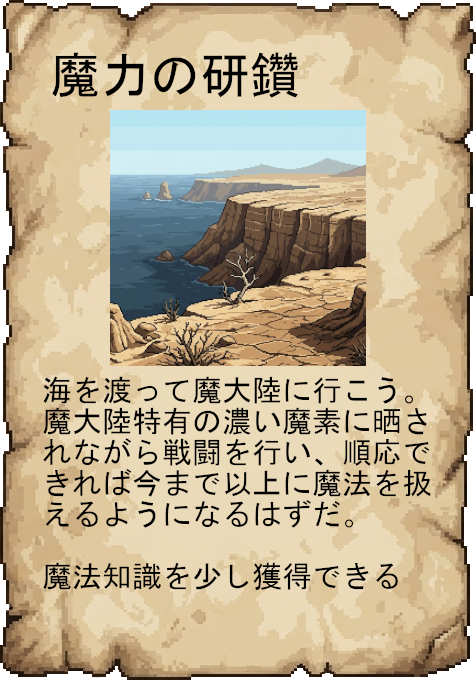
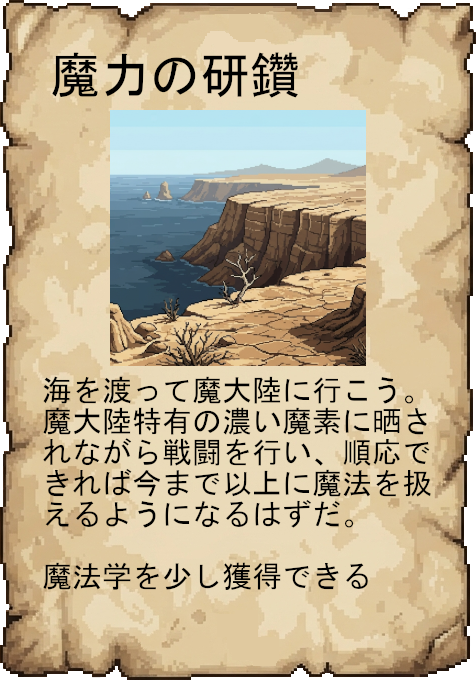
魔法見た目

Changed region(s): [[0.2059, 0.8029, 0.8529, 0.8647]]

diff --git a/Src/Object/Enemy.cpp b/Src/Object/Enemy.cpp
@@ -357,7 +357,7 @@ Enemy* SpawnEnemyByTurn(int turn)
                 { "Data/Image/Enemy/Spirit/Attack_3.png",     13, 1, 128, 128 },
                 { "Data/Image/Enemy/Spirit/Hurt.png",          3, 1, 128, 128 },
                 { "Data/Image/Enemy/Spirit/Dead.png",          5, 1, 128, 128 }};
-            return new Enemy("マジックボム",53,8,12,14,20,12, "こうげき", "ばくはつ", "放熱", magicBombAnims, spawnX, spawnY);
+            return new Enemy("マジックボム",43,8,12,14,20,12, "こうげき", "ばくはつ", "放熱", magicBombAnims, spawnX, spawnY);
         }case 4: {
             std::vector<MotionConfig> trentAnims = {
                 { "Data/Image/Enemy/Plent/Idle.png",          5, 1, 128, 128 },
@@ -366,7 +366,7 @@ Enemy* SpawnEnemyByTurn(int turn)
                 { "Data/Image/Enemy/Plent/Attack_3.png",     15, 1, 128, 128 },
                 { "Data/Image/Enemy/Plent/Hurt.png",          3, 1, 128, 128 },
                 { "Data/Image/Enemy/Plent/Dead.png",          2, 1, 128, 128 }};
-            return new Enemy("トレント",56,8,3,6,16,14, "こうげき", "毒の粉", "大地の恵み", trentAnims, spawnX, spawnY);}
+            return new Enemy("トレント",56,8,3,13,16,14, "こうげき", "毒の粉", "大地の恵み", trentAnims, spawnX, spawnY);}
         }
     }
     //5〜9ターン目

diff --git a/Src/Scene/Phase/QuestPhase.h b/Src/Scene/Phase/QuestPhase.h
@@ -177,7 +177,8 @@ private:
 	STATUS_EFFECT statusEffect_;//状態異常を管理する変数
 	STATUS_EFFECT enemyStatusEffect_ = STATUS_EFFECT::NONE;	//敵の状態異常を管理する変数
 	int statusTurns_ = 4;		//状態異常の残りターン数
-	int enemyCurs_ = 6;			//敵の呪いカウント 
+	int enemyCurs_=6;
+	int poisonCnt_ = 0;			//毒の呪いカウント 
 
 	//クエスト場所系
 	QUEST_LOCATION location_;		//配列